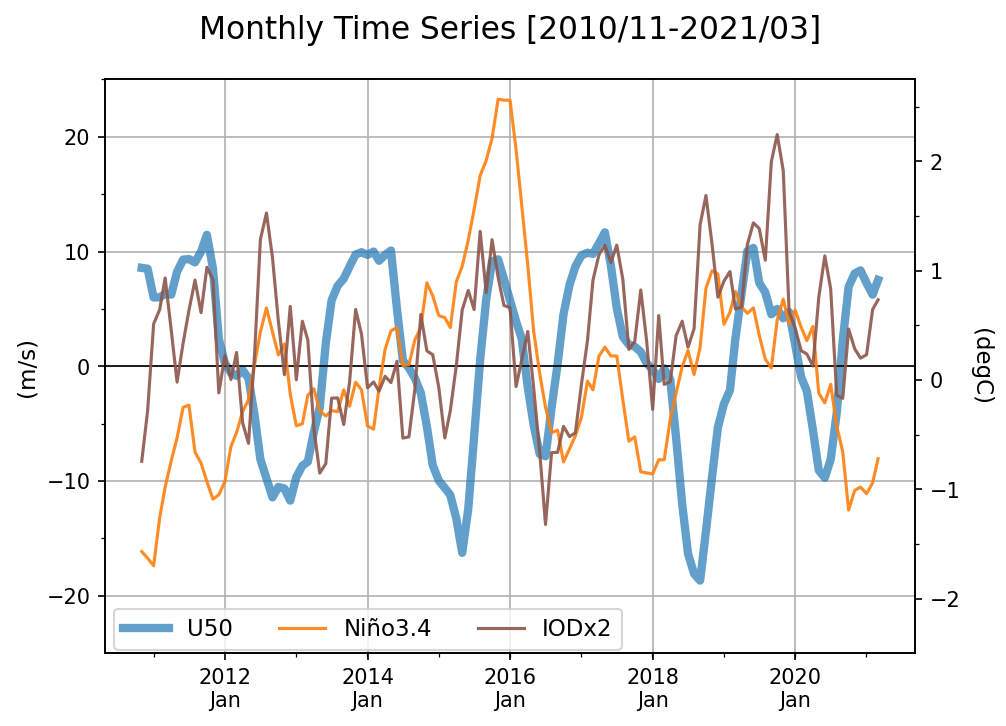
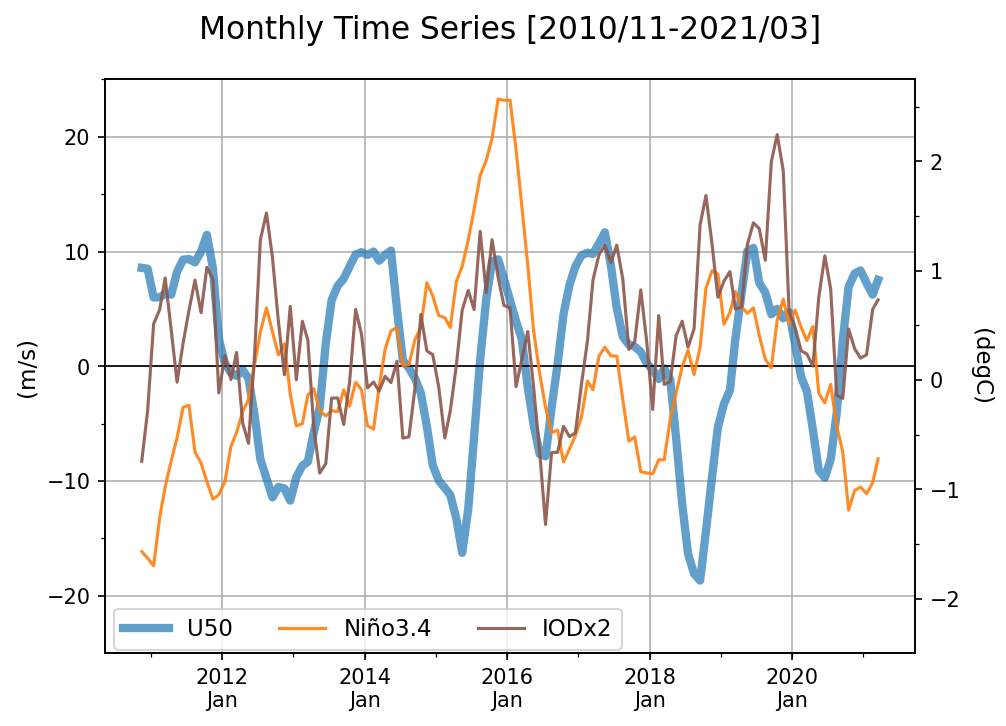
2021.0629b

diff --git a/F.Datetime_and_Time_Series/F03_monthly_to_daily_interp.py b/F.Datetime_and_Time_Series/F03_monthly_to_daily_interp.py
@@ -1,0 +1,137 @@
+"""
+Monthly to daily downscaling interpolation example
+
+By Daeho Jin
+
+----
+Reference:
+https://docs.scipy.org/doc/scipy/reference/generated/scipy.interpolate.interp1d.html
+"""
+
+import sys
+import os.path
+import numpy as np
+from datetime import date, datetime, timedelta
+import F00_common_functions as fns
+import matplotlib.pyplot as plt
+
+'''
+def get_nn34_daily(infn, t_list):
+    tdd0= t_list[0]-timedelta(days=16)
+    tdd1= t_list[-1]+timedelta(days=16)
+    nn34ano= fns.read_nn34_text(infn,(tdd0,tdd1))  # Need buffers before and after the period
+    print(nn34ano.shape, nn34ano.mean())
+
+    ms_idx= nn34ano<-99
+    if ms_idx.sum()>0:
+        sys.exit('Missing data is found!')
+        ### Or some treatment needed (removing, duplication, etc.)
+
+    nn34ano_dy= Interp_mon2day(nn34ano,t_list,(tdd0,tdd1))
+    return nn34ano_dy
+
+from scipy.interpolate import interp1d
+def Interp_mon2day(vals,t_list,val_dates):
+    ### Interpolate Monthly data to Daily data
+    ### vals: 1-D, wrapping t_list period
+
+    ## First, we need to decide exact time where the monthly data is located
+    xx=[]
+    iyr,imon= val_dates[0].year, val_dates[0].month
+    mdays=0
+    for yy in range(iyr,val_dates[1].year+1,1):
+        imm=imon if yy==iyr else 1
+        for mm in range(imm,13,1):
+            mm2, yy2 = mm+1, yy  # Idenfity next month to identify dy_per_mon
+            if mm2>12:
+                mm2-=12; yy2=yy+1
+            dy_per_mon=(date(yy2,mm2,1)-date(yy,mm,1)).days
+            xx.append(dy_per_mon/2+0.5+mdays)  # Center of a month's days
+            mdays+=dy_per_mon
+            if mm==val_dates[1].month and yy==val_dates[1].year: break
+    xx=np.asarray(xx)
+    print(vals.shape,xx.shape)
+
+    f= interp1d(xx,vals,kind='cubic')  # Set up the interpolation coefficients
+
+    xnew= [(dd-date(iyr,imon,1)).days for dd in t_list]  # Date points to be interpolated
+    xnew= np.asarray(xnew)
+    f2= f(xnew)
+    print(f2.shape)
+    return f2
+'''
+
+def main():
+    ### Parameters
+    tgt_dates= (date(2020,1,1),date(2020,12,31))
+    tgt_dates_str= [dd.strftime('%Y.%m%d') for dd in tgt_dates]  # See Reference above
+    ndays= (tgt_dates[1]-tgt_dates[0]).days+1
+    indir = '../Data/'
+
+    ### Read Nino3.4 values (Reference)
+    infn_nn34= indir+'nino3.4_anom.1870-2020.txt'
+    nn34ano= fns.read_nn34_text(infn_nn34,tgt_dates)
+    mm_times= fns.get_months(*tgt_dates,include_end=True)
+    print(nn34ano.shape, nn34ano.mean())
+
+    ### Get interpolated time series of Nino3.4
+    ### First, build a list of times where data is interpolated
+    dd_times= []
+    for t in range(1,ndays,3):  # For example, every 3 days
+        dd_times.append(tgt_dates[0]+timedelta(days=t))
+    nn34ano_dy= fns.get_nn34_daily(infn_nn34,dd_times)
+    print(nn34ano_dy.shape, nn34ano_dy.mean())
+
+    outdir= '../Pics/'
+    fnout= outdir+'F03_monthly_to_daily_ex1.png'
+    suptit= "Monthly and Daily NINO34 Time Series [{}-{}]".format(*tgt_dates_str)
+    pdata=dict(m_data=(mm_times,nn34ano), d_data=(dd_times,nn34ano_dy),
+                data_labels=['Monthly','3-Daily',],
+                suptit=suptit,fnout=fnout)
+    plot_main(pdata)
+    return
+
+import matplotlib.pyplot as plt
+from matplotlib.ticker import MultipleLocator,AutoMinorLocator,FuncFormatter
+from matplotlib.dates import DateFormatter
+def plot_main(pdata):
+    mx,my= pdata['m_data']
+    dx,dy= pdata['d_data']
+    data_labels= pdata['data_labels']
+
+    fig= plt.figure()
+    fig.set_size_inches(7.5,5)  ## (xsize,ysize)
+
+    ### Page Title
+    suptit= pdata['suptit']
+    fig.suptitle(suptit,fontsize=15,y=0.97,va='bottom',stretch='semi-condensed')
+
+    ### Parameters for subplot area
+    abc='abcdefgh'
+    fig.subplots_adjust(left=0.05,right=0.95,top=0.92,bottom=0.07)
+
+    wd= (dx[1]-dx[0]).days*0.8
+    ### Plot time series
+    ax1= fig.add_subplot(111)
+    ax1.bar(dx,dy,width=wd,color='C0',label=data_labels[1],alpha=0.7)
+    ax1.plot(mx,my,c='C1',marker='^',markersize=10,lw=2,alpha=0.9,label=data_labels[0])
+
+    ax1.set_ylim(-2.,2.)
+    ax1.grid()
+    ax1.axhline(y=0,c='k',lw=0.8)
+    ax1.xaxis.set_major_formatter(DateFormatter("%Y.%m"))
+    ax1.xaxis.set_minor_locator(AutoMinorLocator(2))
+    ax1.yaxis.set_minor_locator(AutoMinorLocator(2))
+    ax1.set_ylabel('(degC)',fontsize=11)
+
+    ax1.legend(loc='upper right',fontsize=11)
+
+    ###---
+    fnout= pdata['fnout']
+    fig.savefig(fnout,bbox_inches='tight',dpi=150)
+    print(fnout)
+    #plt.show()
+    return
+
+if __name__ == "__main__":
+    main()

diff --git a/F.Datetime_and_Time_Series/F00_common_functions.py b/F.Datetime_and_Time_Series/F00_common_functions.py
@@ -7,7 +7,7 @@ By Daeho Jin
 import sys
 import os.path
 import numpy as np
-from datetime import date
+from datetime import date, datetime, timedelta
 
 def bin_file_read2mtx(fname, dtype=np.float32):
     """ Open a binary file, and read data
@@ -39,7 +39,7 @@ def get_months(time0,time1,include_end=False):
     times=[]
     yr,mm= iyr,imo
     for t in range(nmon):
-        times.append(date(yr,mm,1))
+        times.append(date(yr,mm,15))
         mm+=1
         if mm>12: mm-=12; yr+=1
     return times
@@ -166,3 +166,47 @@ def read_nn34_text(infn,tgt_dates):
         outdata= outdata[imon:emon] if emon<0 else outdata[imon:]
 
     return outdata
+
+def get_nn34_daily(infn, t_list):
+    tdd0= t_list[0]-timedelta(days=16)
+    tdd1= t_list[-1]+timedelta(days=16)
+    nn34ano= read_nn34_text(infn,(tdd0,tdd1))  # Need buffers before and after the period
+    print(nn34ano.shape, nn34ano.mean())
+
+    ms_idx= nn34ano<-99
+    if ms_idx.sum()>0:
+        sys.exit('Missing data is found!')
+        ### Or some treatment needed (removing, duplication, etc.)
+
+    nn34ano_dy= Interp_mon2day(nn34ano,t_list,(tdd0,tdd1))
+    return nn34ano_dy
+
+from scipy.interpolate import interp1d
+def Interp_mon2day(vals,t_list,val_dates):
+    ### Interpolate Monthly data to Daily data
+    ### vals: 1-D, wrapping t_list period
+
+    ## First, we need to decide exact time where the monthly data is located
+    xx=[]
+    iyr,imon= val_dates[0].year, val_dates[0].month
+    mdays=0
+    for yy in range(iyr,val_dates[1].year+1,1):
+        imm=imon if yy==iyr else 1
+        for mm in range(imm,13,1):
+            mm2, yy2 = mm+1, yy  # Idenfity next month to identify dy_per_mon
+            if mm2>12:
+                mm2-=12; yy2=yy+1
+            dy_per_mon=(date(yy2,mm2,1)-date(yy,mm,1)).days
+            xx.append(dy_per_mon/2+0.5+mdays)  # Center of a month's days
+            mdays+=dy_per_mon
+            if mm==val_dates[1].month and yy==val_dates[1].year: break
+    xx=np.asarray(xx)
+    print(vals.shape,xx.shape)
+
+    f= interp1d(xx,vals,kind='cubic')  # Set up the interpolation coefficients
+
+    xnew= [(dd-date(iyr,imon,1)).days for dd in t_list]  # Date points to be interpolated
+    xnew= np.asarray(xnew)
+    f2= f(xnew)
+    print(f2.shape)
+    return f2

diff --git a/F.Datetime_and_Time_Series/F02_Plot_timeseries_seasonal.py b/F.Datetime_and_Time_Series/F02_Plot_timeseries_seasonal.py
@@ -19,7 +19,7 @@ def main():
     ### Parameters
     tgt_dates= (datetime(2010,11,1),datetime(2021,3,1))
     tgt_dates_str= [dd.strftime('%Y/%m') for dd in tgt_dates]  # See Reference above
-    mon_per_yr= 12
+    
     times= fns.get_months(*tgt_dates,include_end=True)
     nmons= len(times); print(nmons)
     indir = '../Data/'
@@ -87,7 +87,7 @@ def plot_main(pdata):
     ### Plot time series
     ax1= fig.add_subplot(111)
     ax1b= ax1.twinx()
-    ax1.bar(xt,yy[0],width=90,color='C0',label=data_labels[0],alpha=0.7)  # Use left y-axis
+    ax1.bar(xt,yy[0],width=360,color='C0',label=data_labels[0],alpha=0.7)  # Use left y-axis
     ax1b.plot(xt,yy[1],c='C1',lw=1.5,alpha=0.9,label=data_labels[1])  # Use right y-axis
     ax1b.plot(xt,yy[2]*2,c='C5',lw=1.5,alpha=0.9,label=data_labels[2]+'x2') # Use right y-axis
 

diff --git a/C.Basic_Numpy/C02.numpy_basic2.py3.py b/C.Basic_Numpy/C02.numpy_basic2.py3.py
@@ -135,8 +135,15 @@ print("\nIf given just one index to 2-D array?")
 print("b[0] = {}".format(b[0]))
 print("b[-1] = {}".format(b[-1]))
 print('b[idx] = {}'.format(b[idx]))
-print("---> It is interpreted as the index of the first axis (axis=0)")
+print("""---> It is interpreted as the index of the first axis (axis=0)
 
+FYI, test these:
+for i in b.reshape(-1): print(i)
+vs.
+for i in b: print(i)
+""")
+for i in b.reshape(-1): print(i)
+for i in b: print(i)
 input("\nPress Enter to continue... (2-2c)\n")
 
 print("\nIf multiple indexes are given?")

diff --git a/F.Datetime_and_Time_Series/F01_Plot_timeseries_monthly.py b/F.Datetime_and_Time_Series/F01_Plot_timeseries_monthly.py
@@ -19,7 +19,7 @@ def main():
     ### Parameters
     tgt_dates= (datetime(2010,11,1),datetime(2021,3,1))
     tgt_dates_str= [dd.strftime('%Y/%m') for dd in tgt_dates]  # See Reference above
-    mon_per_yr= 12
+    
     times= fns.get_months(*tgt_dates,include_end=True)
     nmons= len(times); print(nmons)
     indir = '../Data/'
